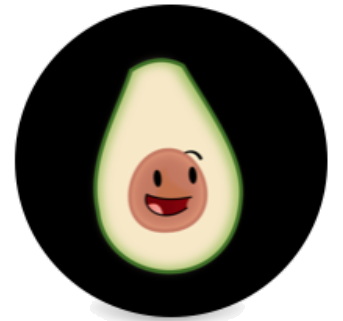
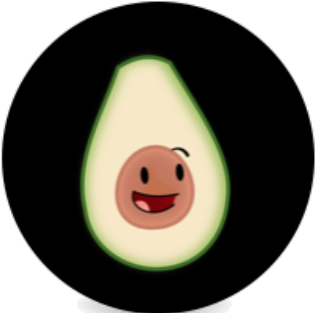
the tatshh beta3ii

diff --git a/src/Game.js b/src/Game.js
@@ -3,21 +3,19 @@ import { connect } from "react-redux";
 import { INCREMENT, DECREMENT, RESET } from "./redux/actions/actionTypes";
 import Circle from "./Circle";
 import EndGame from "./EndGame";
-import coin from "./images/coin.jpg";
+import coin from "./images/coin.png";
 import Laila from "./images/Laila.png";
 import mama from "./images/mama.png";
 import mama_mad from "./images/mama_mad.png";
 
 import shop from "./images/shop.png";
 import Mama from "./mama";
-import Shop from "./images/shop.jpg";
 
-import Mama_Ayshih from "./images/Mama_Ayshih.png";
 let lastHole;
 
 class Game extends Component {
   state = {
-    holes: [0, 1, 2, 3, 4]
+    holes: [0, 1, 2, 3, 4, 5, 6, 7]
   };
 
   componentDidMount() {
@@ -51,7 +49,7 @@ class Game extends Component {
     } else
       return (
         <div className=" container-fluid text-center row  2vh">
-          <span className=" container-fluid border border-dark col-3">
+          <span className=" container-fluid  col-3">
 
             <br></br>
 
@@ -60,13 +58,11 @@ class Game extends Component {
               className="card-img-fluid "
               alt="..."
               style={{ width: "20vh", height: "40vh", marginLeft: "5px" }}
-
-
             />
             <Mama />
-
           </span>
-          <div className=" card col-6 align-center border border-dark "
+
+          <div className=" card col-6 align-center border-bottom-0 border-dark "
             style={{ background: "rgba(255, 255, 255, 0.71)" }}>
             <h1>Guac-A-Mole</h1>
             <h4>
@@ -84,7 +80,7 @@ class Game extends Component {
               {this.props.score}
               <img
                 src={coin}
-                className="card-img col-6-sm "
+                className="card-img "
                 alt="..."
                 style={{ width: "2.5vh", height: "2.5vh", marginLeft: "5px" }}
               />
@@ -92,16 +88,45 @@ class Game extends Component {
 
             <div className="container-fluid align-center">
               <center>
-                <img
-                  src={Laila}
-                  className="card-img col-6-sm "
-                  alt="..."
-                  style={{ width: "26vh", height: "34vh", marginLeft: "5px" }}
-                />
+                <div className="row">
+                  <div class="card text-white bg-dark mb-3" style={{ width: "30rem" }}>
+
+                    <div className="row">
+                      <div className="col">
+
+                        <div class="card-body" style={{ fontFamily: 'Finger Paint' }}>
+                          <div class="card-header "><h4><b>
+                            menu :</b></h4></div>
+                          <h5 class="card-title">Dark card title</h5>
+                          <p class="card-text">Some quick example text to build on the card title and make up the bulk of the card's content.</p>
+                        </div>
+                      </div>
+                      <div className="col">
+
+                        <div class="card-body" style={{ fontFamily: 'Finger Paint' }}>
+                          <div class="card-header "><h5><b>
+                            Current order:</b></h5></div>
+                          <h5 class="card-title">Dark card title</h5>
+                          <p class="card-text">Some quick example text to build on the card title and make up the bulk of the card's content.</p>
+                        </div>
+                      </div>
+                    </div>
+
+
+
+                  </div>
+                  <img
+                    src={Laila}
+                    className="card-img  "
+                    alt="..."
+                    style={{ width: "26vh", height: "34vh", marginLeft: "5px" }}
+                  />
+
+                </div>
 
                 <div
-                  className="card text-white bg-white  mb-3"
-                  style={{ width: "72vh" }}
+                  className="card text-white bg-white   mb-3"
+                  style={{ width: "70vh" }}
                 >
                   <div className="row align-center ">
                     {this.state.holes.map(holeID => (
@@ -115,13 +140,13 @@ class Game extends Component {
               </center>
             </div>
           </div>
-          <span className=" container-fluid border border-dark col-3">
+          <span className=" container-fluid  col-3">
             <br></br>
             <img
               src={shop}
               className="card-img-fluid "
               alt="..."
-              style={{ width: "50vh", height: "45vh", marginLeft: "5px" }}
+              style={{ width: "50vh", height: "45vh", marginLeft: "-15px" }}
 
             />
             <br></br>

diff --git a/public/index.html b/public/index.html
@@ -1,28 +1,23 @@
 <!DOCTYPE html>
 <html lang="en">
-  <head>
-    <meta charset="utf-8" />
-    <link rel="icon" href="%PUBLIC_URL%/favicon.ico" />
-    <meta name="viewport" content="width=device-width, initial-scale=1" />
-    <meta name="theme-color" content="#000000" />
-    <meta
-      name="description"
-      content="Web site created using create-react-app"
-    />
-    <link rel="apple-touch-icon" href="%PUBLIC_URL%/logo192.png" />
-    <link
-      rel="stylesheet"
-      href="https://stackpath.bootstrapcdn.com/bootstrap/4.4.1/css/bootstrap.min.css"
-      integrity="sha384-Vkoo8x4CGsO3+Hhxv8T/Q5PaXtkKtu6ug5TOeNV6gBiFeWPGFN9MuhOf23Q9Ifjh"
-      crossorigin="anonymous"
-    />
 
-    <!--
+<head>
+  <meta charset="utf-8" />
+  <link rel="icon" href="%PUBLIC_URL%/favicon.ico" />
+  <meta name="viewport" content="width=device-width, initial-scale=1" />
+  <meta name="theme-color" content="#000000" />
+  <meta name="description" content="Web site created using create-react-app" />
+  <link rel="apple-touch-icon" href="%PUBLIC_URL%/logo192.png" />
+  <link rel="stylesheet" href="https://stackpath.bootstrapcdn.com/bootstrap/4.4.1/css/bootstrap.min.css"
+    integrity="sha384-Vkoo8x4CGsO3+Hhxv8T/Q5PaXtkKtu6ug5TOeNV6gBiFeWPGFN9MuhOf23Q9Ifjh" crossorigin="anonymous" />
+  <link href="https://fonts.googleapis.com/css?family=Finger+Paint&display=swap" rel="stylesheet">
+
+  <!--
       manifest.json provides metadata used when your web app is installed on a
       user's mobile device or desktop. See https://developers.google.com/web/fundamentals/web-app-manifest/
     -->
-    <link rel="manifest" href="%PUBLIC_URL%/manifest.json" />
-    <!--
+  <link rel="manifest" href="%PUBLIC_URL%/manifest.json" />
+  <!--
       Notice the use of %PUBLIC_URL% in the tags above.
       It will be replaced with the URL of the `public` folder during the build.
       Only files inside the `public` folder can be referenced from the HTML.
@@ -31,12 +26,13 @@
       work correctly both with client-side routing and a non-root public URL.
       Learn how to configure a non-root public URL by running `npm run build`.
     -->
-    <title>React App</title>
-  </head>
-  <body>
-    <noscript>You need to enable JavaScript to run this app.</noscript>
-    <div id="root"></div>
-    <!--
+  <title>React App</title>
+</head>
+
+<body>
+  <noscript>You need to enable JavaScript to run this app.</noscript>
+  <div id="root"></div>
+  <!--
       This HTML file is a template.
       If you open it directly in the browser, you will see an empty page.
 
@@ -46,5 +42,6 @@
       To begin the development, run `npm start` or `yarn start`.
       To create a production bundle, use `npm run build` or `yarn build`.
     -->
-  </body>
+</body>
+
 </html>

diff --git a/src/Home.js b/src/Home.js
@@ -11,26 +11,34 @@ const Home = () => {
         <img src={backstory}
           className="card-img-top border border-dark "
           alt="..."
-          style={{ width: "70rem", height: "35rem", marginTop: "40px" }} />
-        <div className="card-body ">
-          <h3 className="card-title">Guac-A-Mole</h3>
-          <h4 className="card-text">Make the Fastest and the most delicious guacamole!</h4>
-          <br></br>
-          <p className="card-text"><b className="text">What did the avocado say to the fork? “You guac my world.”</b></p>
-          <p className="card-text"><b className="text">What’s an avocado’s favorite kind of exercise? Avocardio!</b></p>
-          <Link to="/game">
-            <button
-              type="button"
-              class="btn btn-success rounded-pill btn-lg"
-              style={{ marginTop: "40px" }}
-            >
-              Start Game
+          style={{ width: "82rem", height: "39rem", marginTop: "10px" }} />
+
+        <center>
+          <div className=" card col-8 align-center border  "
+            style={{ background: "rgba(255, 255, 255, 0.71)" }}>
+
+
+            <h3 className="card-title"
+            >Guac-A-Mole</h3>
+            <h4 className="card-text">let me tell you about liala ..</h4>
+            <p className="card-text"><b className="text">Laila and her Mama lived alone in the "*aryeh" .. one day liala and her mom
+            desided to move to the city to start a tiny organic food buisness .
+          </b></p>
+            <p className="card-text"><b className="text">compony Liala and her Mama in this jerny and help her achive her dream </b></p>
+            <Link to="/game">
+              <button
+                type="button"
+                class="btn btn-success rounded-pill btn-lg"
+                style={{ marginTop: "40px" }}
+              >
+                Start Game
        </button>
-          </Link>
-          {mama}
-        </div>
+            </Link>
+            {mama}
+          </div>
+        </center>
       </div>
-    </div>
+    </div >
 
   );
 };

diff --git a/src/data.js b/src/data.js
@@ -1,4 +1,5 @@
-jokes = ["What do you call a blessed avocado? Holy guacamole.",
+jokes = [
+    "What do you call a blessed avocado? Holy guacamole.",
     "What do you say to an avocado who’s done a good job?“Bravocado!”",
     "What did the tortilla chip say to the guacamole? “You are all I avo wanted.”",
     "What did the avocado say to the fork? “You guac my world.”",
@@ -14,17 +15,22 @@ mama = ["god bless you Liala , الله يرظى عليكي",
     "انا رايحة عند جارتنا ام احمد",
     "مش طابخين اليوم :)",
     "pic1,pic2,pic3 اي صورة احلى احطها عالفيسبوم",
+    "whereisthespacebutton",
+    "who is tyler and what did he create ??",
+    "I love you Liala you are like a daughter to me .. ooh wait",
+    "when I was your age I made guacamole for the whole town in under 2 hours",
+    "https://www.youtube.com/watch?v=oHg5SJYRHA0"
 ]
 
 customers = [{
     name: "MishMish",
     order: 5,
-    comments: "do you have cookies?"
+    comments: "is your guacamole called Pikachu? Because it is shockingly delicious"
 },
 {
     name: "Azooz",
     order: 8,
-    comments: "My name is Azooz and I have the power of objects"
+    comments: "My name is Azooz and I have the power of objects by my side"
 },
 {
     name: "AUB",
@@ -34,13 +40,13 @@ customers = [{
 {
     name: "Anna",
     order: 9,
-    comments: "Craaaaaaazyy!!"
+    comments: " this is Craaaaaaazyy!! delicious"
 }
     ,
 {
     name: "San-deago",
     order: 11,
-    comments: "errrrr compurrrrr"
+    comments: "errrrr compurrrrr why there is no 'r' in guacamole"
 }
     ,
 {

diff --git a/src/index.css b/src/index.css
@@ -2,7 +2,7 @@ body {
   margin: 0;
   font-family: -apple-system, BlinkMacSystemFont, 'Segoe UI', 'Roboto', 'Oxygen',
     'Ubuntu', 'Cantarell', 'Fira Sans', 'Droid Sans', 'Helvetica Neue',
-    sans-serif;
+    sans-serif ,'Finger Paint', cursive;
   -webkit-font-smoothing: antialiased;
   -moz-osx-font-smoothing: grayscale;
 }

diff --git a/src/App.js b/src/App.js
@@ -9,7 +9,7 @@ import bg from "./images/bg.jpg";
 function App() {
   return (
     <div className="container-fluid"
-      style={{ width: "1920px", height: "1080px" }}
+      style={{ width: "100%", height: "100%" }}
     >
       <div style={{ backgroundImage: `url(${bg})` }} className="text-cent" >
 

diff --git a/src/Circle.js b/src/Circle.js
@@ -34,7 +34,7 @@ class Circle extends Component {
                   : Empty
             }
             alt="Logo"
-            width="150"
+            width="130"
             height="130"
             onClick={this.handleClick}
           />
